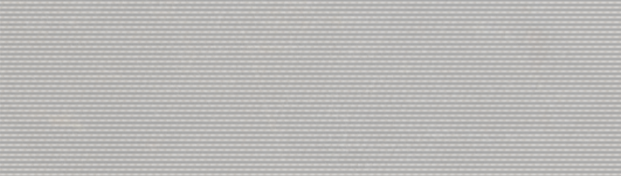
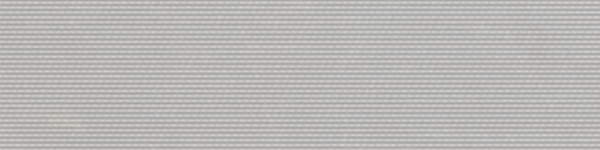
rerender bg. tint font

diff --git a/src/screens/MainScreen.js b/src/screens/MainScreen.js
@@ -26,7 +26,7 @@
         bgflyPos: 500,
 
         res: {
-            bg: new Ω.Image("res/images/allbg.png", null, 0.4),
+            bg: new Ω.Image("res/images/allbg2.png", null, 1),
             bgfly: new Ω.Image("res/images/truc.png", null, 0.3),
             scratch: new Ω.Image("res/images/scratchscreen.png", null, 0.4)
         },

diff --git a/README.md b/README.md
@@ -14,24 +14,21 @@ on GitHub: https://github.com/mrspeaker/oscillator
 
 ## todo:
 
-Balancing
-Re-export bg at 40%
-tint font correctly
+Better "window" on buildings
 
 ### optionals
 
 EFFECT: on success, explode bombs
-better missile exlosion
-Make the "radar dots" look like radars or something.
-Add a HUD with % of places searched, time passed (slo-mo-time)
 TUTORIAL: "shoot the damn bombs" warning if first bombs get too close to ground and no fire
 Add touch support
 background action
+Add a HUD with % of places searched, time passed (slo-mo-time)
+
 EFFECT: VHS video tape (or digital glitch) look on bottom of screen
+Make the "radar dots" look like radars or something.
 Extra voices
     "scan aborted"
     "code not found"
     something better than "Well done"
-
 Extra sfx
     explode missle
